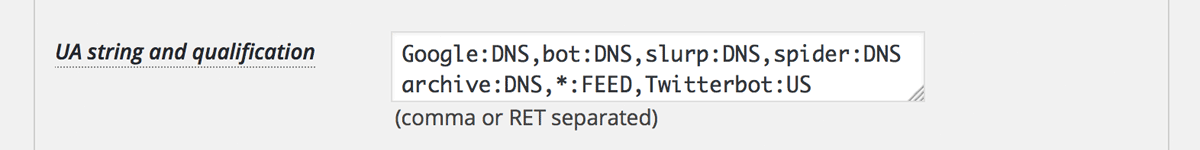
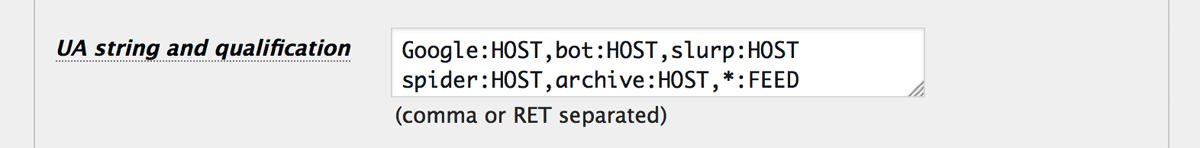
Change DNS -> HOST.

diff --git a/_codex/04/03/ua-string-and-qualification.md b/_codex/04/03/ua-string-and-qualification.md
@@ -20,24 +20,25 @@ matches all user agents.
 
 Currently, you can obtain four types of qualification listed bellow :
 
-| Qualification     | Description                                            |
-|:------------------|:-------------------------------------------------------|
-| "DNS"             | True if the result of reverse DNS lookup is available. |
-| "FEED"            | True if the request is feed url.                       |
-| Country code      | True if the request comes from the specified country.  |
-| IP address (CIDR) | True if the IP address is within the specific range.   |
+| Qualification     | Description                                                      |
+|:------------------|:-----------------------------------------------------------------|
+| FEED              | True if the request is the feed url.                             |
+| HOST              | True if the result of reverse DNS lookup is available.           |
+| HOST=__string__   | True if the host name by reverse DNS lookup includes __string__. |
+| Country code      | True if the request comes from the specified country.            |
+| IP address (CIDR) | True if the IP address is within the specific range.             |
 
 ### Negative operation ###
 
-A negative operation "`!`" can be placed just before a qualification. It would 
-invert the meaning of qualification.
+A negative operation "`!`" can be placed just before a qualification. It inverts
+the meaning of qualification.
 
 ### Examples ###
 
-| Sample      | Description                                                         |
-|:------------|:--------------------------------------------------------------------|
-| Google:DNS  | pass  if UA includes "Google" and reverse DNS lookup is available   |
-| Google#!DNS | block if UA includes "Google" and reverse DNS lookup is unavailable |
+| Sample       | Description                                                         |
+|:-------------|:--------------------------------------------------------------------|
+| Google:HOST  | Pass  if UA includes "Google" and reverse DNS lookup is available   |
+| Google#!HOST | Block if UA includes "Google" and reverse DNS lookup is unavailable |
 
 ![UA string and qualification]({{ '/img/2016-08/UA-Qualify.png' | prepend: site.baseurl }}
  "UA string and qualification"
